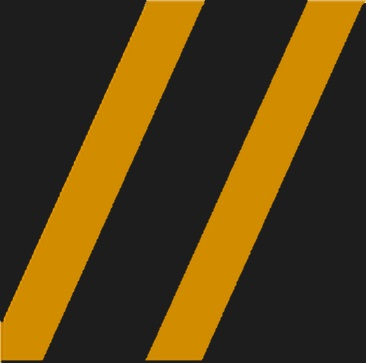
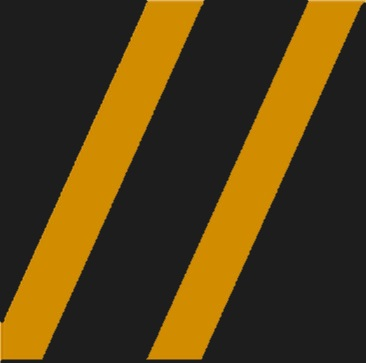
adjusted footer margins and size of orange line images

diff --git a/index.html b/index.html
@@ -612,7 +612,7 @@
         <div class="section" id="footer">
             <div class="row center-align">
                 <div class="col s12 m12 l4 left-align">
-                     <img src="media/orange_lines.jpg" alt="" class="orange_lines" height=80>  
+                     <img src="media/orange_lines.jpg" alt="" id="orange_line1">  
                 </div><!-- end col-->
                 <div class="col s12 m12 l4">
                     <span class="flow-text" id="footer_heading1">
@@ -662,7 +662,7 @@
                                 <div class="red_box">&ensp;</div>
                         </div><!-- end col-->
                         <div class="col s12 m12 l2 right-align">
-                               <img src="media/orange_lines.jpg" alt="" class="orange_lines" height=80>
+                               <img src="media/orange_lines.jpg" alt="" id="orange_line2">
                         </div><!-- end col-->
 
                     </div><!-- end row-->
@@ -671,17 +671,22 @@
             </div><!-- end row-->
 
              <div class="row align-left">
-                <div class="col s10 m6 l8 offset-l3 center-align">
+                <div class="col s10 m6 l6 offset-l3 center-align">
                     <span style="color:grey">
                     Seiko Vision, 651 E. Corporate Drove, Lewisvilee, TX 75057, USA
                     </span>
-                    <ul id="terms" >
-                    <li><a href="#" alt="">Privacy</a></li>
-                    |
-                    <li><a href="#" alt="">Terms of use</a></li>
-                    </ul>
                 </div><!-- end col-->
-            </div><!-- end row-->                
+                 <div class="col s10 m6 l3">
+                    <ul id="terms" >
+                        <li><a href="#" alt="">Privacy</a></li>
+                        |
+                        <li><a href="#" alt="">Terms of use</a></li>
+                    </ul>  
+                </div><!-- end col-->
+
+            </div><!-- end row-->
+
+             
     </div><!-- end col-->
 
 

diff --git a/css/style.css b/css/style.css
@@ -896,7 +896,7 @@ left: 130px;
  }
 
 #terms{
-	float:right; display: inline;
+	float:right; display: inline; margin-right: 1.5em;
 }
 #terms li{
 	display: inline;
@@ -1167,12 +1167,14 @@ left: 130px;
 }
 
 
-.orange_lines{
-    position: relative;
-    top: 0;
-    left: 0;
+#orange_line1{
+	max-height: 150px;
+	min-height: 100px;
 }
-
+#orange_line2{
+	max-height: 150px;
+	min-height: 100px;
+}
 
 
 
